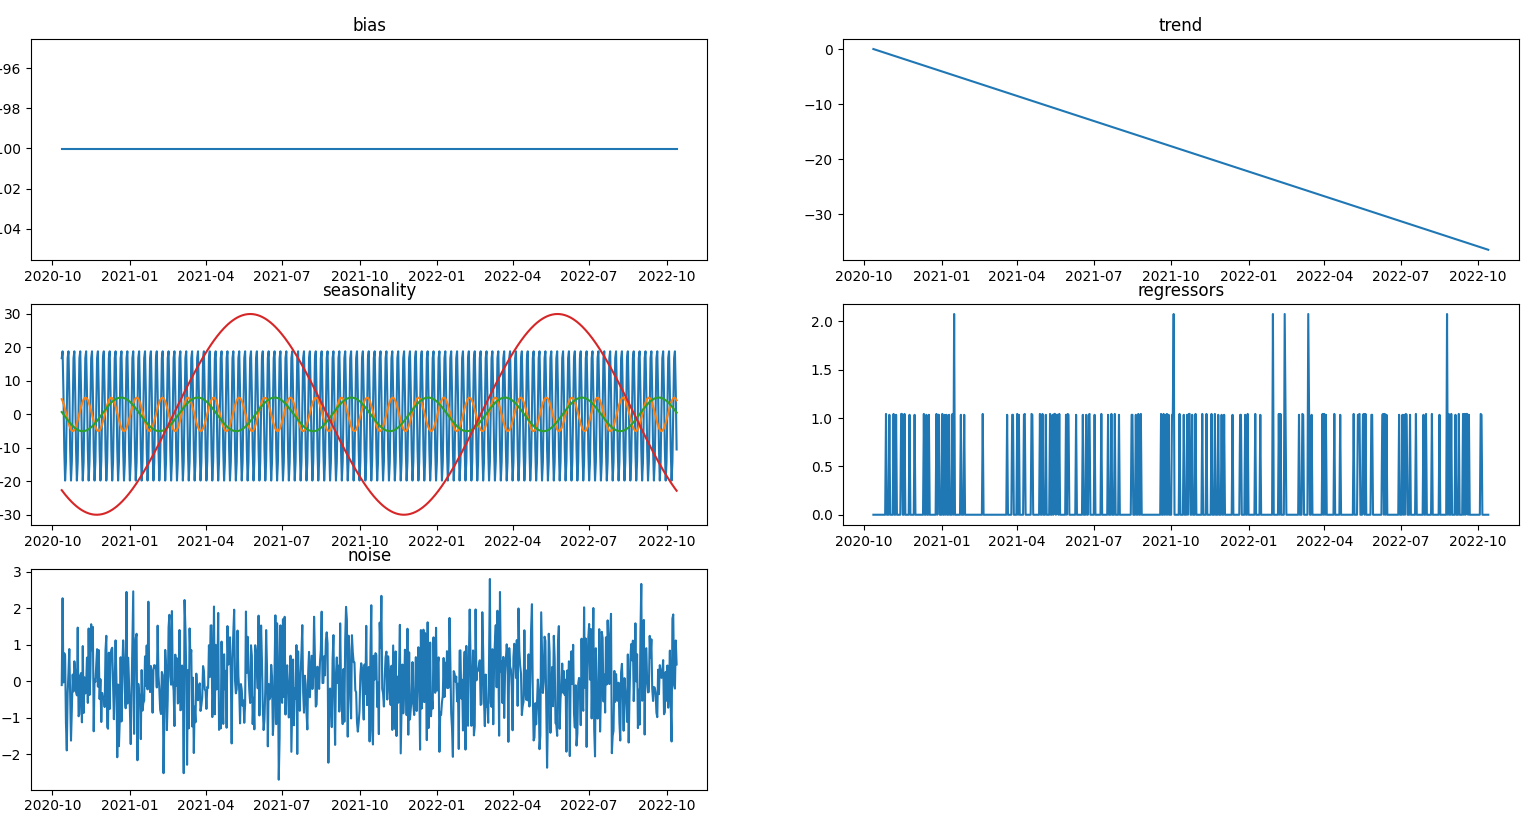
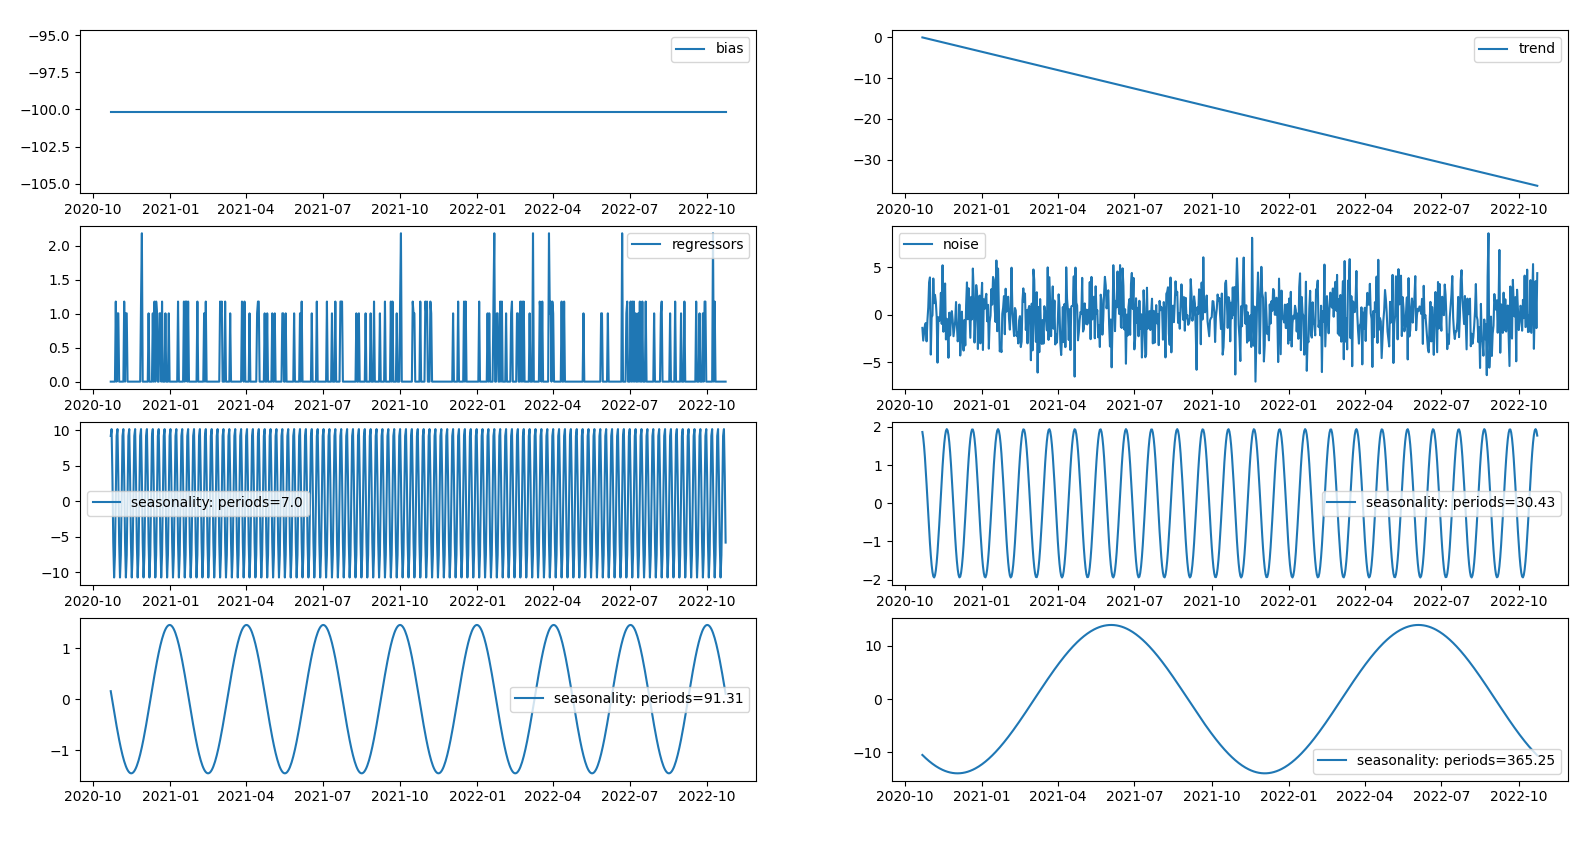
add sample weight

diff --git a/fourier_forecast/fourier_forecast.py b/fourier_forecast/fourier_forecast.py
@@ -4,6 +4,7 @@ from fourier_forecast.waves import sin_wave
 from datetime import date, timedelta
 from numpy.typing import NDArray
 import matplotlib.pyplot as plt
+from typing import Optional
 import numpy as np
 
 
@@ -14,10 +15,12 @@ class FourierForecast:
                  monthly_seasonality: bool = False,
                  quarterly_seasonality: bool = False,
                  yearly_seasonality: bool = True,
+                 fourier_order: int = 1,
                  learning_rate: float = 0.001,
                  n_iterations: int = 100_000,
                  tol: float = 1e-05
                  ):
+        self.fourier_order = fourier_order
         self.learning_rate: float = float(learning_rate)
         self.n_iterations: int = int(n_iterations)
         self.tol = float(tol)
@@ -28,45 +31,44 @@ class FourierForecast:
                                         quarterly_seasonality,
                                         yearly_seasonality
                                         ]]
-        self.amplitudes: NDArray[np.float64] = None
-        self.phases: NDArray[np.float64] = None
+        self.amplitudes: Optional[NDArray[np.float64]] = None
+        self.phases: Optional[NDArray[np.float64]] = None
         self.frequencies = 1 / self.time_periods
-        self.trend: float = None
-        self.bias: float = None
+        self.trend: Optional[float] = None
+        self.bias: Optional[float] = None
 
-        self.regressors: NDArray[np.float64] = None
-        self.regressor_weights: NDArray[np.float64] = None
-        self.n_regressors: int = None
+        self.regressors: Optional[NDArray[np.float64]] = None
+        self.regressor_weights: Optional[NDArray[np.float64]] = None
+        self.n_regressors: Optional[int] = None
 
-        self.ds: NDArray[np.int64] = None
-        self.min_date: date = None
-        self.y: NDArray[np.float64] = None
-        self.sample_weight: NDArray[np.float64] = None
-        self.trend_estimate: NDArray[np.float64] = None
+        self.ds: Optional[NDArray[np.int64]] = None
+        self.min_date: Optional[date] = None
+        self.y: Optional[NDArray[np.float64]] = None
+        self.sample_weight: Optional[NDArray[np.float64]] = None
+        self.trend_estimate: Optional[NDArray[np.float64]] = None
 
     @staticmethod
     def _to_numpy(a) -> NDArray[np.float64]:
         return np.asarray(a, dtype=np.float64, order='C')
 
     def _initiate_seasonality_estimates(self):
-        self.amplitudes = np.zeros(self.time_periods.size, dtype=np.float64)
-        self.phases = np.zeros(self.time_periods.size, dtype=np.float64)
-        self.trend_estimate = self.y.copy()
+        n_waves = self.time_periods.size * 2 * self.fourier_order
+        self.amplitudes = np.ones(n_waves, dtype=np.float64)
+        self.phases = np.zeros(n_waves, dtype=np.float64)
+        self.frequencies = np.zeros(n_waves, dtype=np.float64)
         for i, t in enumerate(self.time_periods):
-            if self.y.size > np.ceil(t):
-                size_options = np.arange(np.floor(t).astype(np.int64), self.y.size + 1)
-                div = size_options / t
-                diff = np.absolute(div - div.round(0))
-                size = size_options[diff == diff.min()].max()
-                a, p, f = find_signal(self.trend_estimate[: size], t)
-                self.amplitudes[i] = a
-                self.phases[i] = p
-                self.trend_estimate -= sin_wave(a, p, self.frequencies[i], self.ds)
+            for j in range(self.fourier_order):
+                n = i * self.fourier_order * 2 + j * 2
+                f = (j + 1) / t
+                self.frequencies[n] = f
+                self.frequencies[n + 1] = f
+                self.phases[n] = 0
+                self.phases[n + 1] = np.pi
 
     def _initiate_trend_estimates(self):
-        gradient = (self.trend_estimate[-1] - self.trend_estimate[0]) / self.trend_estimate.size
+        gradient = (self.y[-1] - self.y[0]) / self.y.size
         self.trend = gradient
-        self.bias = (self.trend_estimate - gradient * self.ds).mean()
+        self.bias = (self.y - gradient * self.ds).mean()
 
     def _initiate_regressors(self, regressors: NDArray, size: int, default_width: int) -> NDArray[np.float64]:
         regressors = np.zeros((size, default_width), dtype=np.float64) \
@@ -92,10 +94,10 @@ class FourierForecast:
             self.sample_weight = sample_weight / sample_weight.max()
 
     def fit(self,
-            ds: list[date] | NDArray[date],
+            ds: NDArray[date],
             y: NDArray[np.float64],
-            regressors: NDArray[np.float64] = None,
-            sample_weight: NDArray[np.float64] = None
+            regressors: Optional[NDArray[np.float64]] = None,
+            sample_weight: Optional[NDArray[np.float64]] = None
             ):
         self.y = self._to_numpy(y)
         self._initiate_sample_weight(sample_weight)
@@ -123,7 +125,7 @@ class FourierForecast:
                                    )
         self.bias, self.trend, self.amplitudes, self.phases, self.frequencies, self.regressor_weights = results
 
-    def predict(self, ds: list[date] | NDArray[date], regressors: NDArray[np.float64] = None
+    def predict(self, ds: NDArray[date], regressors: Optional[NDArray[np.float64]] = None
                 ) -> NDArray[np.float64]:
         ds = np.array([(d - self.min_date).days for d in ds], dtype=np.int64)
         regressors = self._initiate_regressors(regressors, ds.size, self.n_regressors)
@@ -138,24 +140,31 @@ class FourierForecast:
                        )
 
     @staticmethod
-    def subplot(ax, ds: NDArray, data: NDArray, label: str, title: str = None):
+    def subplot(ax, ds: NDArray[date], data: NDArray[np.float64], label: str):
         ax.plot(ds, data, label=label)
-        ax.set_title(label if title is None else title)
+        ax.legend()
 
     def plot_components(self):
         ds = np.array([self.min_date + timedelta(days=int(d)) for d in self.ds])
-        fig, ax = plt.subplots(nrows=3, ncols=2)
+        n_rows = 2 + np.ceil(self.time_periods.size / 2).astype(np.int64)
+        fig, ax = plt.subplots(nrows=n_rows, ncols=2)
 
         self.subplot(ax[0, 0], ds, create_bias(self.bias, self.ds), 'bias')
         self.subplot(ax[0, 1], ds, create_trend(self.trend, self.ds), 'trend')
+        self.subplot(ax[1, 0], ds, self.regressors @ self.regressor_weights, 'regressors')
+        self.subplot(ax[1, 1], ds, self.y - self.predict(ds, self.regressors), 'noise')
 
-        for w in range(self.amplitudes.size):
-            s = sin_wave(self.amplitudes[w], self.phases[w], self.frequencies[w], self.ds)
-            self.subplot(ax[1, 0], ds, s, f'seasonality {w + 1}', 'seasonality')
+        for i, t in enumerate(self.time_periods):
+            s = np.zeros_like(ds, np.float64)
+            for j in range(self.fourier_order):
+                n = i * self.fourier_order * 2 + j * 2
+                s += sin_wave(self.amplitudes[n], self.phases[n], self.frequencies[n], self.ds)
+            row = 2 + i // 2
+            col = i % 2
+            self.subplot(ax[row, col], ds, s, f'seasonality: periods={t}')
 
-        self.subplot(ax[1, 1], ds, self.regressors @ self.regressor_weights, 'regressors')
-        self.subplot(ax[2, 0], ds, self.y - self.predict(ds, self.regressors), 'noise')
-        ax[2, 1].axis('off')
+        if self.time_periods.size % 2 == 1:
+            ax[n_rows - 1, 1].axis('off')
         plt.show()
 
     def print(self):
@@ -166,17 +175,3 @@ class FourierForecast:
         print('trend:', np.round(self.trend, 5))
         print('bias:', np.round(self.bias, 5))
         print('--------------------')
-
-
-def find_signal(a: NDArray, periods: float):
-    """returns the amplitude, phase and freq of a wave for a given (non-integer) no. periods"""
-    yhat = np.fft.rfft(a)
-    # power_spectral_density = np.abs(yhat) / a.size
-
-    frequencies = np.fft.rfftfreq(a.size, d=1 / periods)
-    amplitudes = np.abs(yhat) * 2 / a.size
-    phases = np.arctan2(yhat.imag, yhat.real) + np.pi / 2
-
-    f = np.absolute(frequencies - 1)
-    i = np.where(f == f.min())[0][0]
-    return amplitudes[i], phases[i], frequencies[i] / periods

diff --git a/tests/test_fourier_forecast.py b/tests/test_fourier_forecast.py
@@ -17,7 +17,7 @@ def make_regressors(t: NDArray[np.int64], regressors: bool) -> NDArray:
     return np.random.choice([0, 1], size=t.size * n_features, p=[p, 1 - p]).reshape(t.size, -1)
 
 
-def create_data(regressors: bool) -> tuple[NDArray[date], NDArray[np.float64], NDArray[np.float64]]:
+def create_data(regressors: bool, fourier_order: int) -> tuple[NDArray[date], NDArray[np.float64], NDArray[np.float64]]:
 
     size = np.random.randint(366 * 2, 366 * 3)
     ds = np.arange(date.today() - timedelta(days=size), date.today()).astype('O')
@@ -25,14 +25,15 @@ def create_data(regressors: bool) -> tuple[NDArray[date], NDArray[np.float64], N
     regressor_x = make_regressors(t, regressors)
 
     y_clean = np.array([
-        make_wave(t, 1 / 7),  # weeks
-        make_wave(t, 1 / 30.43),  # months
-        make_wave(t, 1 / 91.31),  # quarters
-        make_wave(t, 1 / 365.25),  # years
         np.random.normal(0, 1) * t,  # trend
         np.random.choice([-1, 1]) * np.random.randint(1, 100) * np.ones(size),  # bias
         np.sum(regressor_x, axis=1)  # regressors
     ]).sum(axis=0)
+
+    # weeks, months, quarters, years
+    for i in [7, 30.43, 91.31, 365.25]:
+        for f in range(fourier_order):
+            y_clean += make_wave(t, (f + 1) / i)
 
     return ds, y_clean, regressor_x
 
@@ -46,8 +47,8 @@ class TestFourierForecast(unittest.TestCase):
     def test_basic(self):
         for i in range(self.n_tests):
             print(f'basic tests: {i + 1}')
-            ds, y, _ = create_data(regressors=False)
-            ff = FourierForecast(monthly_seasonality=True, quarterly_seasonality=True)
+            ds, y, _ = create_data(regressors=False, fourier_order=1)
+            ff = FourierForecast(monthly_seasonality=True, quarterly_seasonality=True, fourier_order=1)
             ff.fit(ds, y)
             preds = ff.predict(ds)
             np.testing.assert_allclose(y, preds, atol=self.atol, rtol=self.rtol)
@@ -55,8 +56,8 @@ class TestFourierForecast(unittest.TestCase):
     def test_regressors(self):
         for i in range(self.n_tests):
             print(f'regressors tests: {i + 1}')
-            ds, y, r = create_data(regressors=True)
-            ff = FourierForecast(monthly_seasonality=True, quarterly_seasonality=True)
+            ds, y, r = create_data(regressors=True, fourier_order=1)
+            ff = FourierForecast(monthly_seasonality=True, quarterly_seasonality=True, fourier_order=1)
             ff.fit(ds, y, regressors=r)
             preds = ff.predict(ds, regressors=r)
             np.testing.assert_allclose(y, preds, atol=self.atol, rtol=self.rtol)
@@ -64,7 +65,7 @@ class TestFourierForecast(unittest.TestCase):
     def test_sample_weight(self):
         for i in range(self.n_tests):
             print(f'sample weight test: {i + 1}')
-            ds, y, _ = create_data(regressors=False)
+            ds, y, _ = create_data(regressors=False, fourier_order=1)
 
             # if apply zero weight to the first x values, then we can multiply them by a random number and it
             # should not impact the prediction against the last (y.size - x) values
@@ -72,8 +73,19 @@ class TestFourierForecast(unittest.TestCase):
             w = np.concatenate([np.zeros(x), np.ones(y.size - x)], axis=0)
             y[: x] *= np.random.rand()
 
-            ff = FourierForecast(monthly_seasonality=True, quarterly_seasonality=True)
+            ff = FourierForecast(monthly_seasonality=True, quarterly_seasonality=True, fourier_order=1)
             ff.fit(ds, y, sample_weight=w)
 
             preds = ff.predict(ds)
             np.testing.assert_allclose(y[x:], preds[x:], atol=self.atol, rtol=self.rtol)
+
+    def test_fourier_order(self):
+        for i in range(self.n_tests):
+            print(f'fourier order test: {i + 1}')
+            fourier_order = np.random.choice([3, 4, 5])
+            ds, y, _ = create_data(regressors=False, fourier_order=fourier_order)
+            ff = FourierForecast(monthly_seasonality=True, quarterly_seasonality=True, fourier_order=fourier_order)
+            ff.fit(ds, y)
+            preds = ff.predict(ds)
+            np.testing.assert_allclose(y, preds, atol=self.atol, rtol=self.rtol)
+

diff --git a/README.md b/README.md
@@ -1,31 +1,29 @@
 # FourierForecast
-A time-series model that decomposes a daily time-series into seasonality, trend, bias, optional regressors and noise.
+A time-series modelling approach that decomposes a daily time-series into seasonality, trend, bias,
+optional regressors and noise.
  
-- The initial seasonality amplitude and phase are inferred by Fast Fourier Transformation
-- This is then fine-tuned and fitted with the other components using gradient descent
+- Seasonality types & Fourier order are specified
+- Seasonality components, trends, bias and regressors are fit with gradient descent
 - Components can be visualised with plot_components method
 - Numba is used for performance boost
-
-The main purpose of this is to educate myself on Fast Fourier Transformations and gradient descent.
-It is not advised to use this at this point in time.
 
 ### Seasonality:
 - In theory seasonal components can be fitted with less training data than a full season
   - e.g. yearly seasonality can be fitted even when the training data covers just 9 months
-  - however, for best performance, aim to include at least two cycles of the largest seasonal component to be fitted
-  - at this moment, only one wave is fitted per seasonal component which means nuance is lost at a granular level
+    - however, for best performance, aim to include at least two cycles of the largest seasonal component to be fitted
+  - multiple waves per seasonality are fit according to the specified Fourier order
+    - more terms results in better fit but can result in over-fitting
   - fitting frequency by gradient descent does not result in stable outcomes so only amplitude and phase are fitted
-  whilst frequency is determined by pre-determined values:
+  whilst seasonal periods are set by pre-determined values:
      - weekly_seasonality: 7 days
      - monthly_seasonality: 30.43 days
      - quarterly_seasonality: 91.31 days
      - yearly_seasonality: 365.25 days
-  - For multiplicative seasonality, it may be best to log transform your time-series before fitting
+  - for multiplicative seasonality, it may be best to log transform your time-series before fitting
     - where necessary it may also be appropriate to log transform some or all regressors
 
 ### Future updates:
- - higher fourier orders: fit multiple waves per seasonal component to create a more nuanced fit
- - confidence intervals
+ - prediction intervals
  - add deploy to pip into pipeline
 
 ## FourierForecast
@@ -34,6 +32,8 @@ It is not advised to use this at this point in time.
  - monthly_seasonality: bool, default=False
  - quarterly_seasonality: bool, default=False
  - yearly_seasonality: bool, default=True
+ - fourier_order: int, default=1
+   - number of fourier series component for each seasonality type
  - learning_rate: float, default=0.001
  - n_iterations: int, default=100_000
  - tol: float, default=1e-5
@@ -41,7 +41,7 @@ It is not advised to use this at this point in time.
 
 ### Methods
  - fit
-   - ds: NDArray[date] | list[date]
+   - ds: NDArray[date]
      - ordered dates corresponding to each row of the training data
    - y: NDArray[float]
      - daily time-series ordered by date
@@ -50,7 +50,7 @@ It is not advised to use this at this point in time.
    - sample_weight: NDArray[float], default=None
      - individual weights for each sample
  - predict
-   - ds: NDArray[date] | list[date]
+   - ds: NDArray[date]
      - dates corresponding to days to predict
    - regressors: NDArray[float], default=None
      - regressors corresponding to days to predict 
@@ -108,6 +108,24 @@ ff.plot_components()
 ```
 <p float="left">
   <img src="./images/example_plot_components.png" width="100%" />
+</p>
+
+### fourier order example with plot_components()
+```python
+from fourier_forecast.fourier_forecast import FourierForecast
+
+
+dates = ...
+actuals = ...
+
+ff = FourierForecast(fourier_order=5
+                     )
+                     
+ff.fit(dates, actuals)
+ff.plot_components()
+```
+<p float="left">
+  <img src="./images/example_fourier_order.png" width="100%" />
 </p>
 
 ### multiplicative seasonality example
